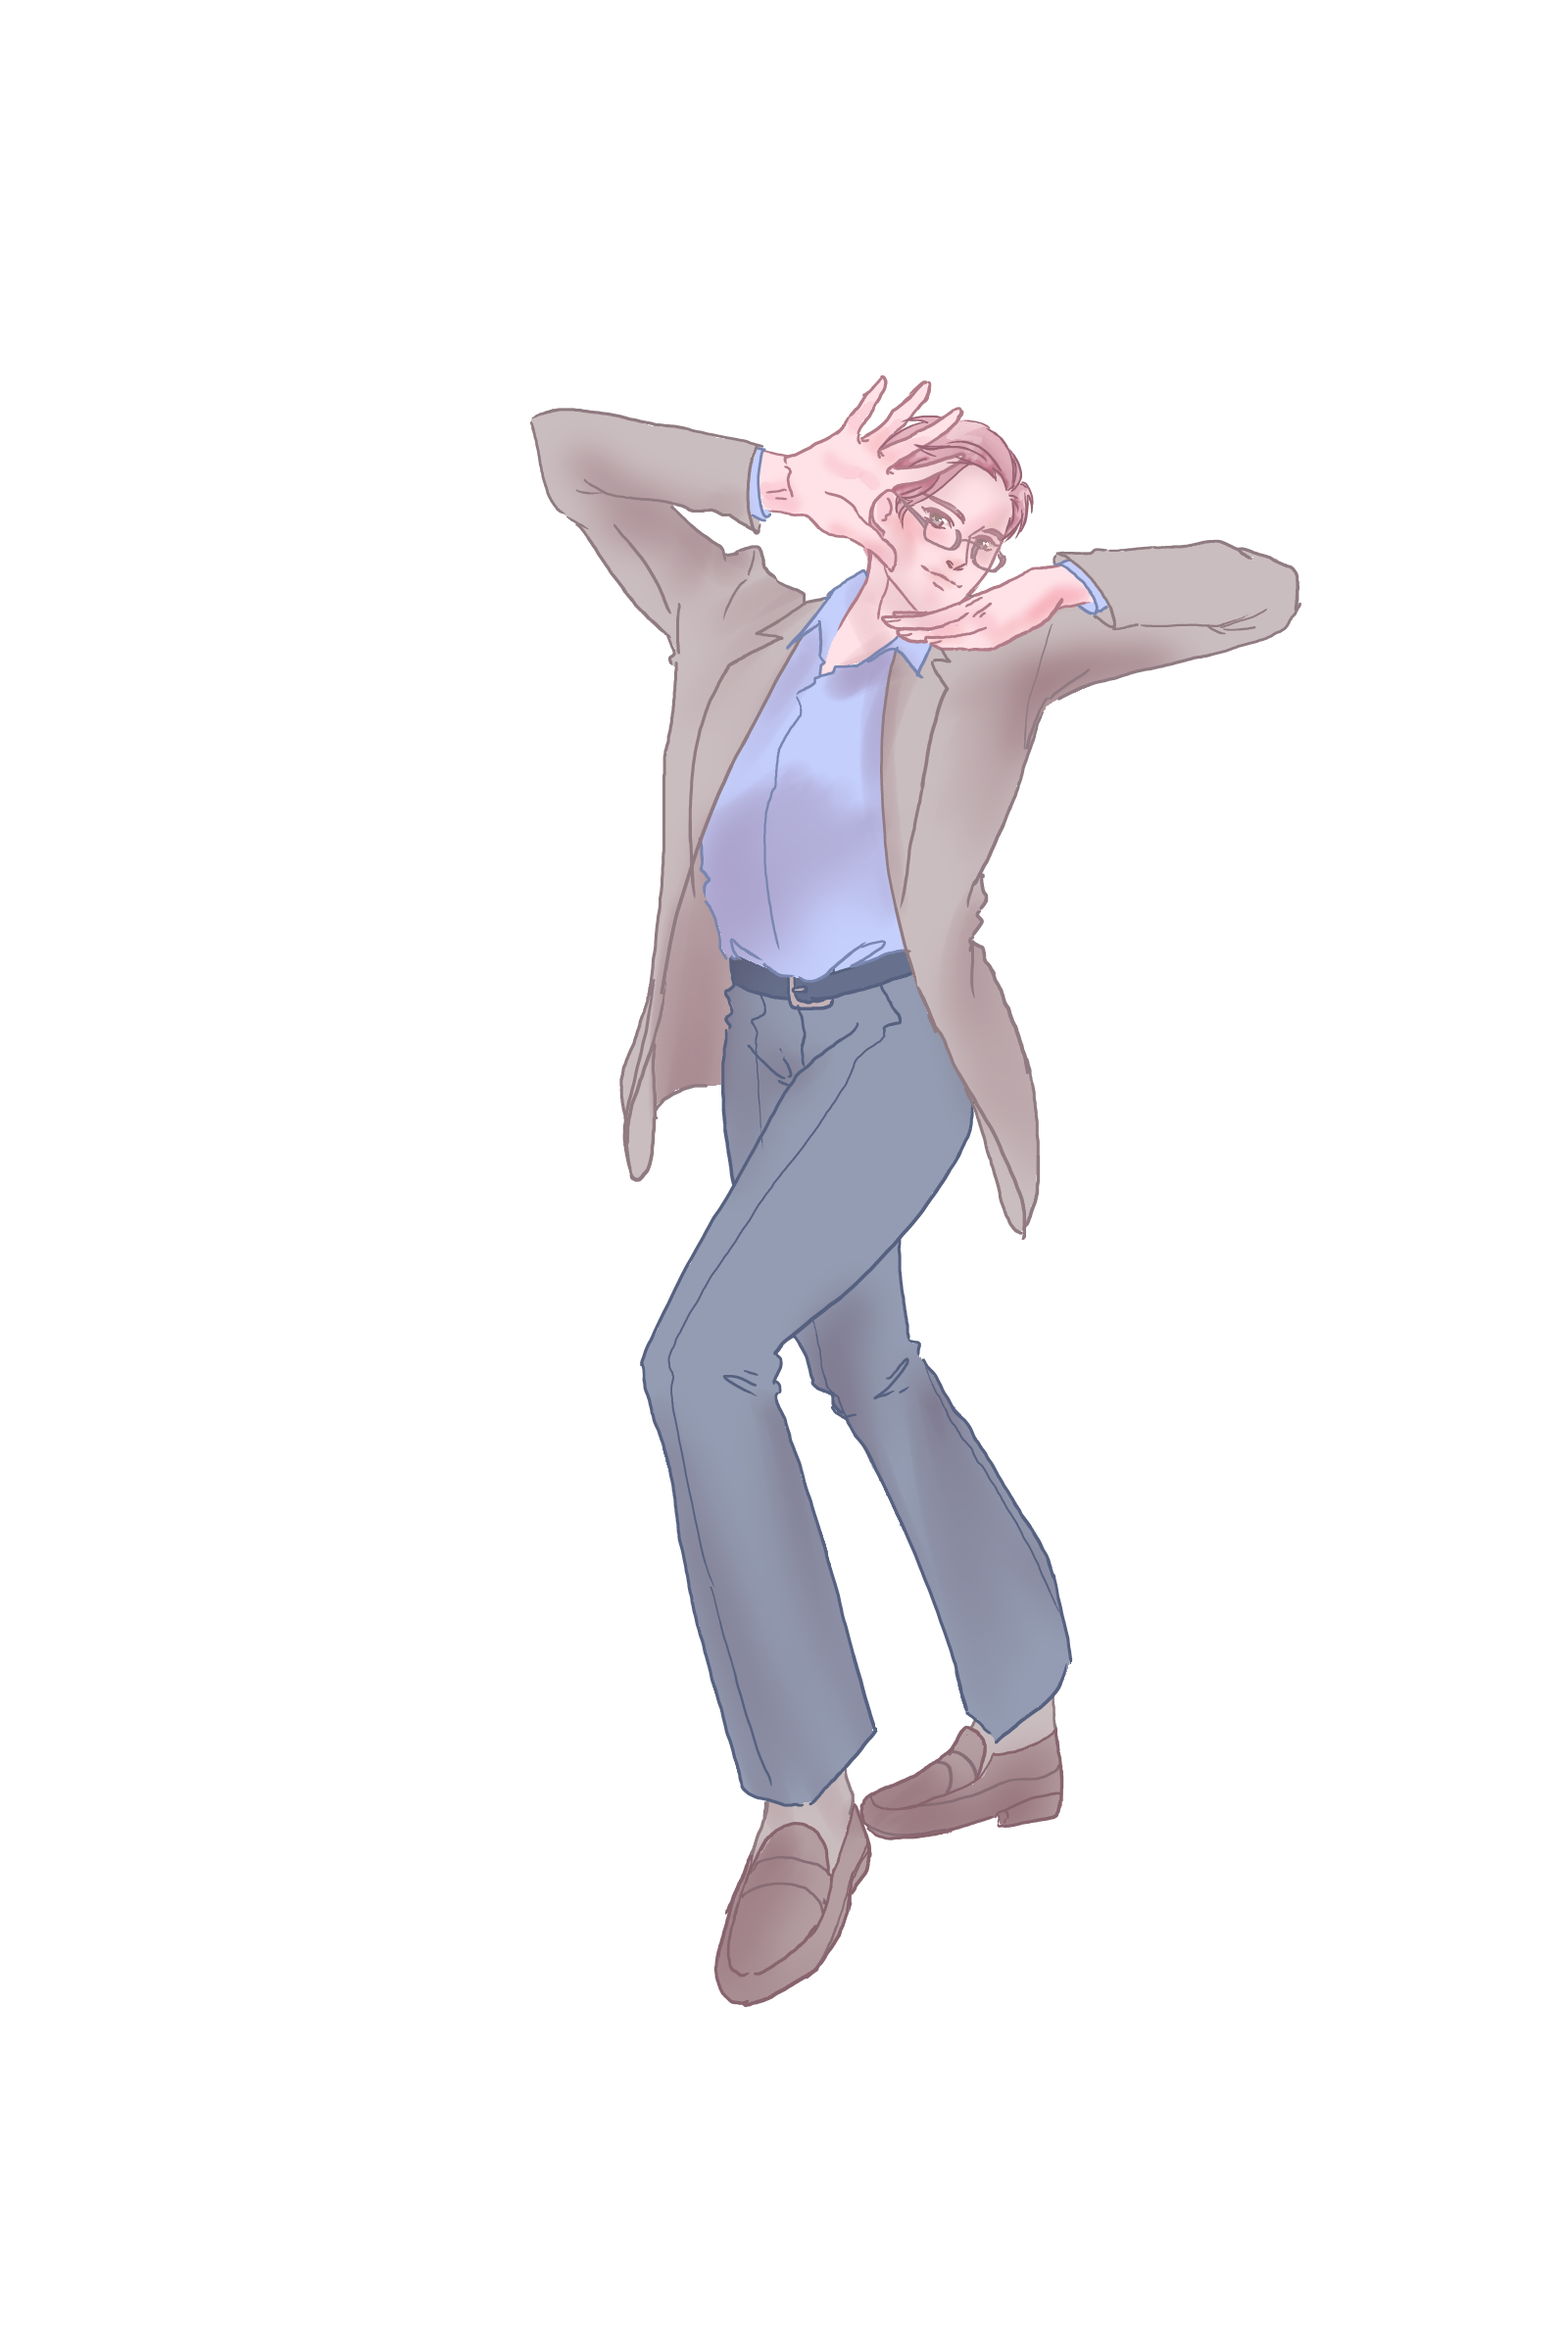
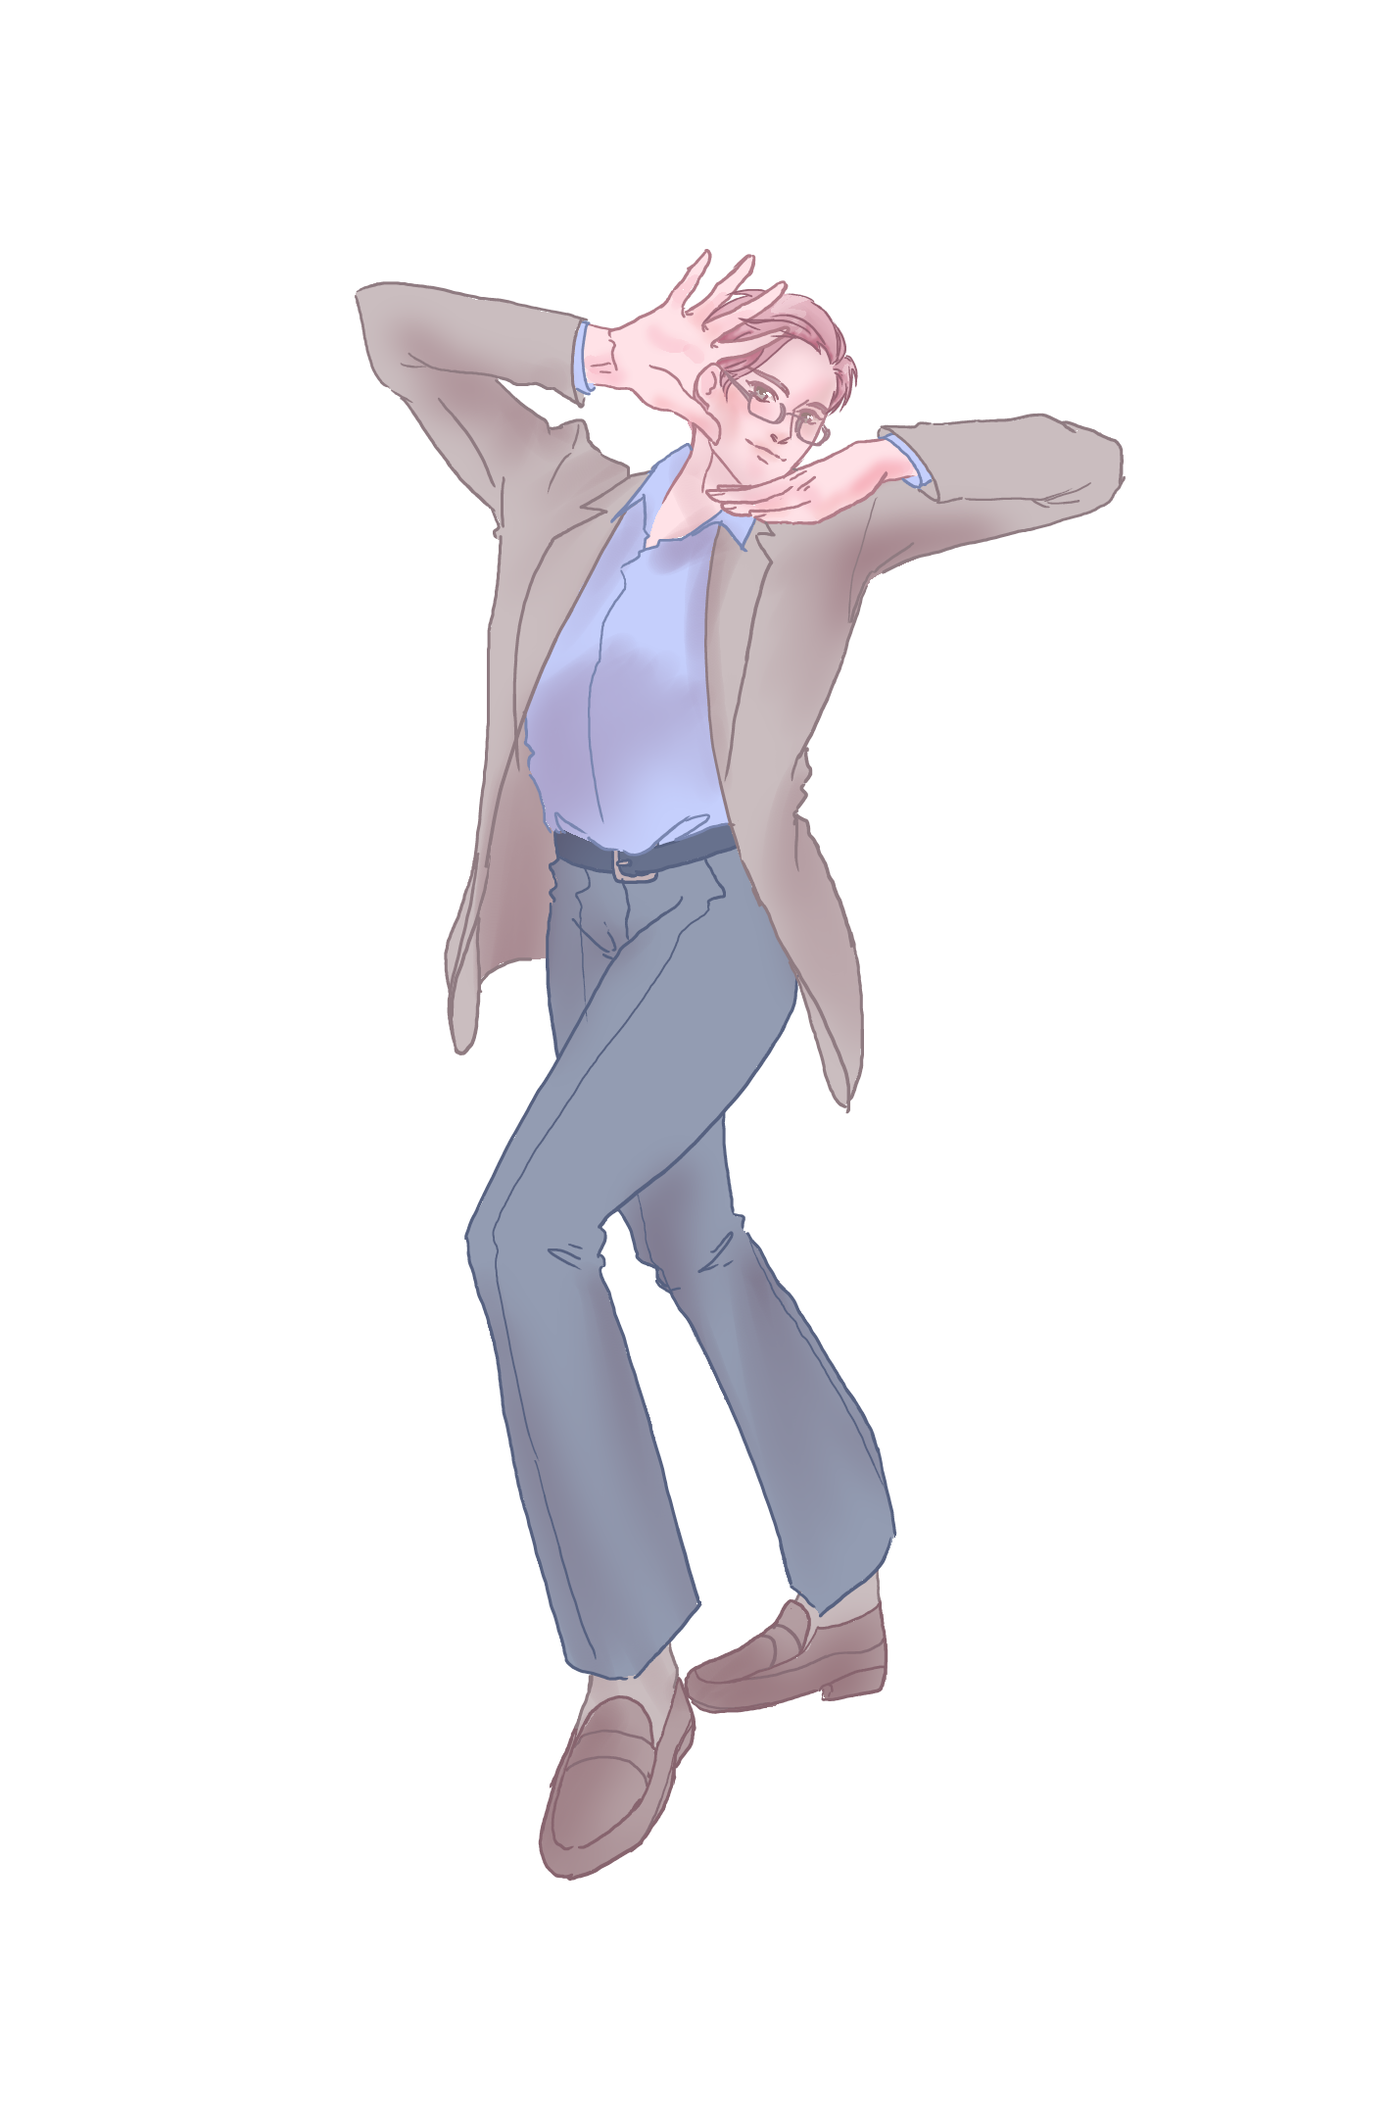
Choices can change art now

Changed region(s): [[0.2477, 0.1247, 0.836, 0.9041]]

diff --git a/main.py b/main.py
@@ -68,19 +68,26 @@ mixer.music.set_volume(0.1)
 
 # Graphics
 # ---------------------------------------------------------
-current_character = 0
-current_background = 0
 
 # Title card
 title = pygame.image.load("images/title.png").convert_alpha()
 title = pygame.transform.rotozoom(title,0,1)
 
 # Characters
+player = pygame.image.load("images/Player.png").convert_alpha()
+player = pygame.transform.rotozoom(player,0,0.4)
+tony_happy = pygame.image.load("images/happy.png").convert_alpha()
+tony_happy = pygame.transform.rotozoom(tony_happy,0,0.4)
+tony_neutral = pygame.image.load("images/neutral.png").convert_alpha()
+tony_neutral = pygame.transform.rotozoom(tony_neutral,0,0.4)
+tony_angry = pygame.image.load("images/angry.png").convert_alpha()
+tony_angry = pygame.transform.rotozoom(tony_angry,0,0.4)
+tony_blush = pygame.image.load("images/blush.png").convert_alpha()
+tony_blush = pygame.transform.rotozoom(tony_blush,0,0.4)
 tony_jojo = pygame.image.load("images/Opening pose.png").convert_alpha()
-tony_jojo = pygame.transform.rotozoom(tony_jojo,0,0.48)
+tony_jojo = pygame.transform.rotozoom(tony_jojo,0,0.55)
 tony_cafe = pygame.image.load("images/cafe.png").convert_alpha()
 tony_cafe = pygame.transform.rotozoom(tony_cafe,0,0.48)
-characters = [tony_jojo,tony_cafe]
 
 # Backgrounds
 office = pygame.image.load("images/backgrounds/office.png").convert()
@@ -96,6 +103,11 @@ cliff = pygame.transform.scale(cliff, (width, height))
 cliff_bad = pygame.image.load("images/backgrounds/cliff_bad.png").convert()
 cliff_bad = pygame.transform.scale(cliff_bad, (width, height))
 backgrounds = [office, cafeteria, cafe, rain, cliff, cliff_bad]
+
+current_character = tony_jojo
+current_background = 0
+
+[character_width, character_height] = current_character.get_size()
 
 # Main Game loop
 # ---------------------------------------------------------
@@ -131,6 +143,13 @@ while True:
                             love_hate_meter = love_hate.update_bar(love_hate_meter, option_number, option_selected)  
                             # Counter
                             option_number += 1 
+
+                            # Add Choice Stuff here (will move to separate function later)
+                            if line_number == 9:
+                                if option_selected == False:
+                                    current_character = tony_happy
+                                if option_selected == True:
+                                    current_character = tony_neutral
                         
                         display_option_response = not display_option_response
 
@@ -139,15 +158,23 @@ while True:
                         # Update next line of text if all previous text already displayed 
                         line_number += 1
 
-                            # CHANGING MUSIC
+                        # CHANGE ANY IMAGES/AUDIO HERE
+
                             # INSERT MUSIC HERE MIGGY (Just copy below 4 lines of code, change line_number and audio loaded in)
-                        if line_number == 11:
                             # mixer.music.stop()
                             # mixer.music.load('audio/Astral_Wind.mp3')
                             # mixer.Channel(0).play(pygame.mixer.Sound('audio/Astral_Wind.mp3'), loops=-1)
-
+                            #    
+                        if line_number == 1:
+                            current_character = tony_happy
+                        if line_number == 2:
+                            current_character = tony_neutral
+                        if line_number == 5:
+                            current_character = player
+                        if line_number == 6:
+                            current_character = tony_happy
+                        if line_number == 11:
                             current_background += 1
-                            current_character = 1
         
             if event.key == pygame.K_UP or event.key == pygame.K_DOWN:
                 option_selected = not option_selected
@@ -166,7 +193,7 @@ while True:
         #     text_render = dialogue_font.render(row_content, True, BLACK)
         #     screen.blit(text_render, (text_padding,0.75*height+text_offset+row_number*row_offset))
     else:
-        screen.blit(characters[current_character], (320, -140))
+        screen.blit(current_character, (0.5*(width-character_width), 0))
 
     # Might work on this later
     # # Pause/Unpause Button 
